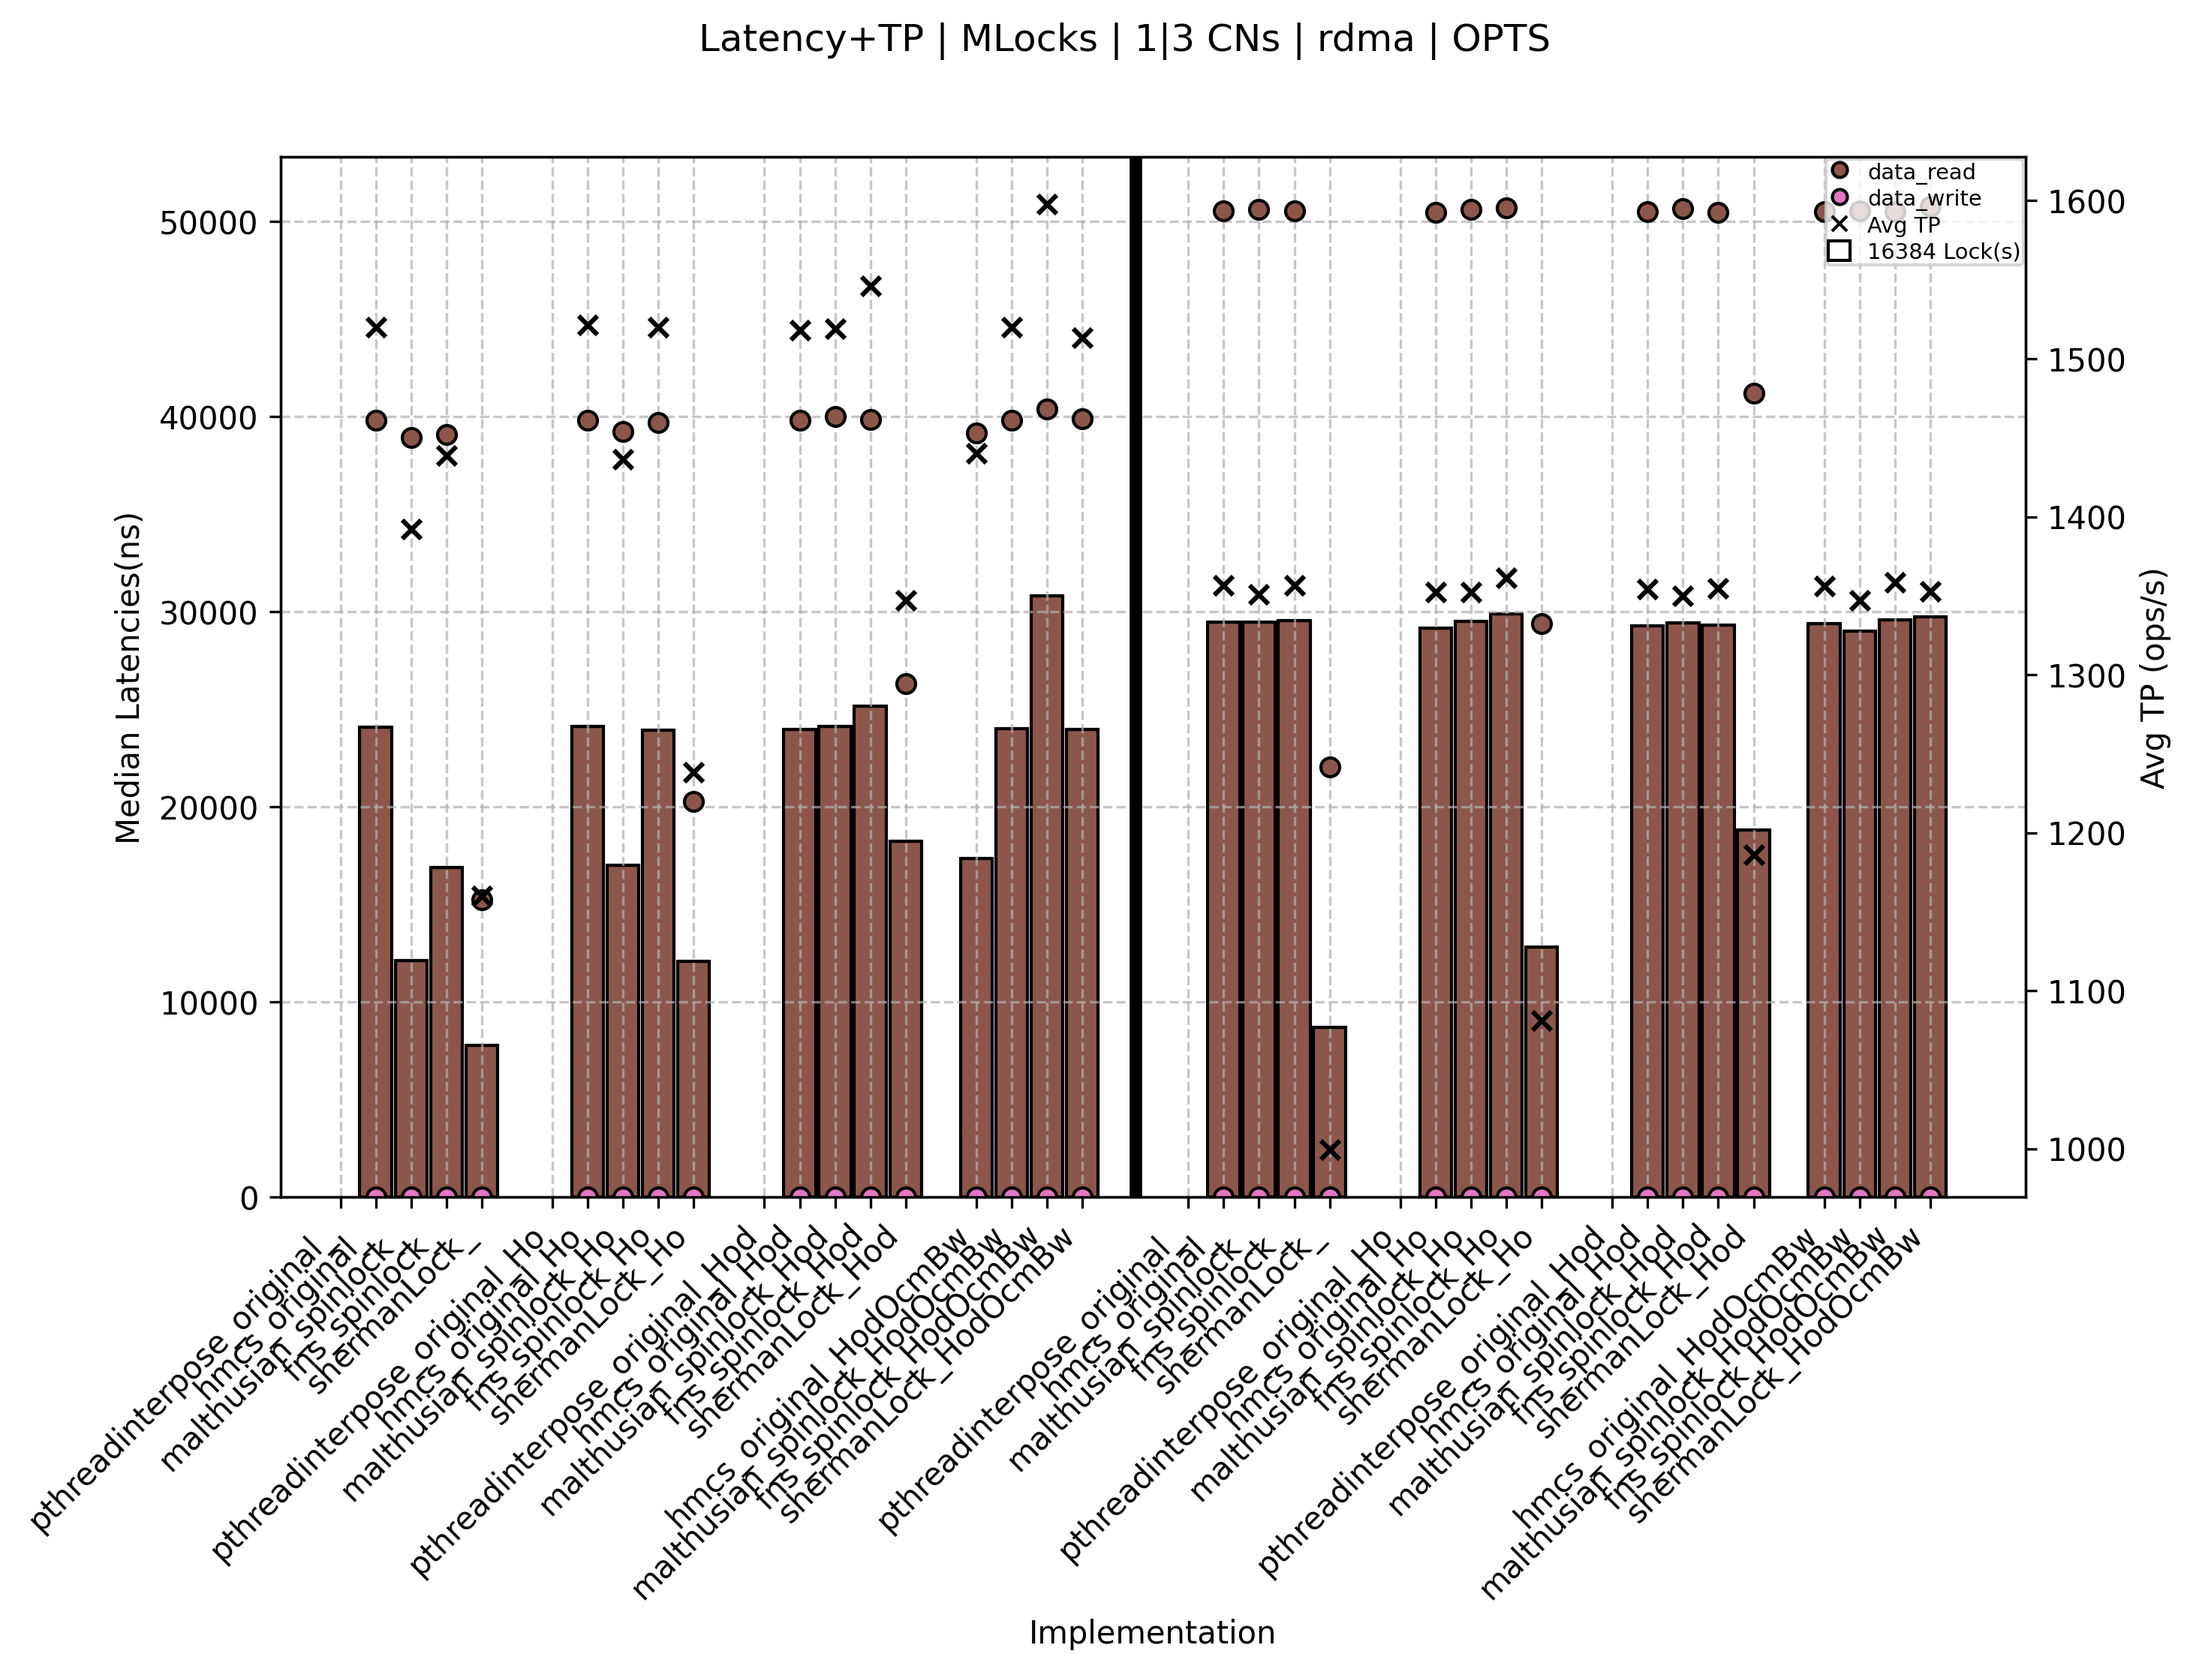
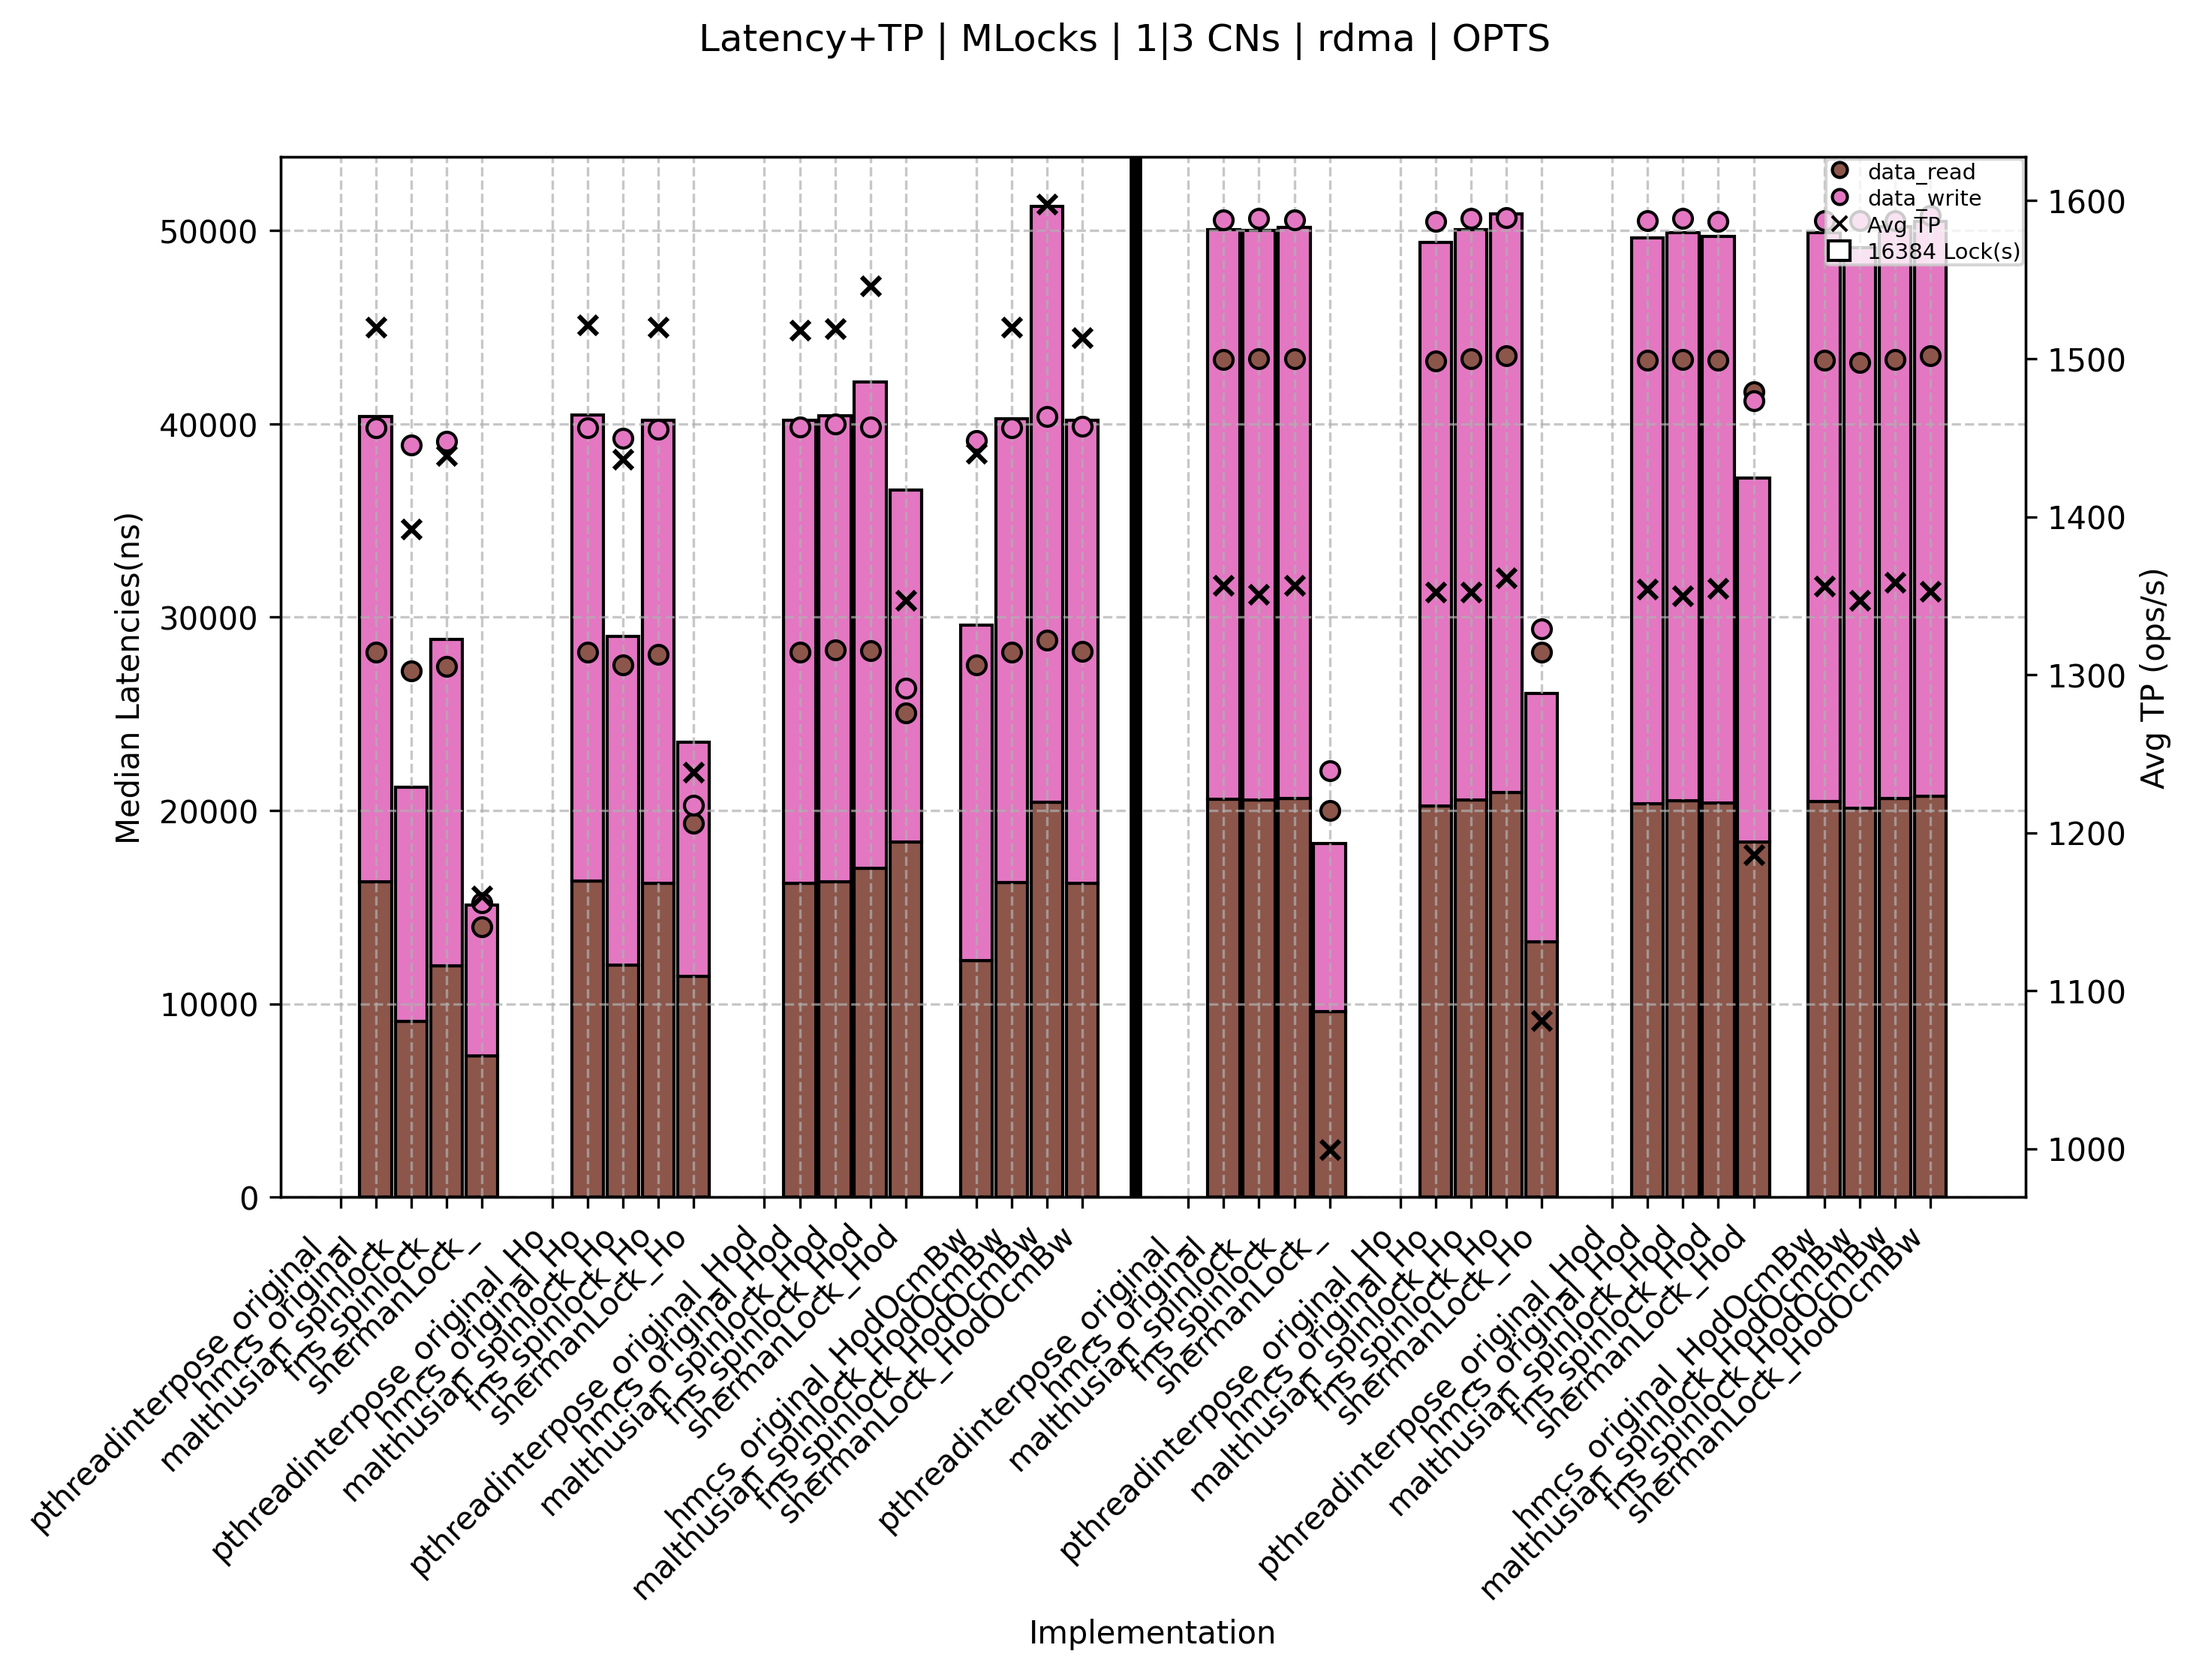
add end_to_end lat

diff --git a/microbench/plot_common.py b/microbench/plot_common.py
@@ -48,6 +48,7 @@ LAT_COLS = [
 "gwait_rel",
 "data_read",
 "data_write",
+"end_to_end",
 "array_size",
 "nodeID",
 "run",
@@ -162,7 +163,7 @@ IMPL_DICT = {"flat": FLAT,
 
 MICROBENCHES = [ "empty_cs", "mlocks", "kvs"]
 
-STATS = ["tp", "lat", "ldist"]
+STATS = ["tp", "lat"]
 
 tp_axis_titles = {
     "lock_acquires" : ("TP (ops/s)", "Jain's Fairness Index"),
